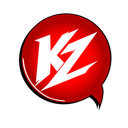
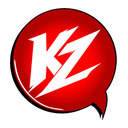
feat(en.kaizenscan): read novels
The type filter offers the site's novels again, which needs app 0.8.3 for their text, and the icon is redrawn from the site's favicon on an opaque canvas.

diff --git a/sources/en.kaizenscan/src/test.rs b/sources/en.kaizenscan/src/test.rs
@@ -137,11 +137,12 @@ fn review_home_keeps_the_site_rows() {
 		.iter()
 		.filter_map(|component| component.title.as_deref())
 		.collect();
-	// In the site's order, without the novels row or the repeated Editor's Choice
+	// In the site's order, novels included, without the repeated Editor's Choice
 	assert_eq!(
 		titles,
 		[
 			"Featured Series",
+			"Novels",
 			"Recently Updated",
 			"Editor's Choice",
 			"Newly Added Series"
@@ -151,9 +152,7 @@ fn review_home_keeps_the_site_rows() {
 		match &component.value {
 			HomeComponentValue::Scroller { entries, .. } => {
 				assert!(!entries.is_empty());
-				// Cards carry no subtitle, and novels are left out
 				assert!(entries.iter().all(|link| link.subtitle.is_none()));
-				assert!(entries.iter().all(|link| !link.title.contains("Novel")));
 			}
 			HomeComponentValue::MangaChapterList {
 				page_size, entries, ..
@@ -172,8 +171,8 @@ fn review_home_keeps_the_site_rows() {
 	let HomeComponentValue::Scroller { entries, .. } = &home.components[0].value else {
 		panic!("featured series is a scroller");
 	};
-	assert_eq!(entries.len(), 1);
-	assert_eq!(entries[0].title, "First Series");
+	let titles: Vec<&str> = entries.iter().map(|link| link.title.as_str()).collect();
+	assert_eq!(titles, ["First Series", "[ Novel ] Novel One"]);
 }
 
 #[aidoku_test]
@@ -292,7 +291,6 @@ fn home_follows_the_site() {
 		.filter_map(|component| component.title.as_deref())
 		.collect();
 	assert!(titles.contains(&"Featured Series"), "{titles:?}");
-	assert!(!titles.contains(&"Novels"));
 	let mut unique = titles.clone();
 	unique.sort_unstable();
 	unique.dedup();
